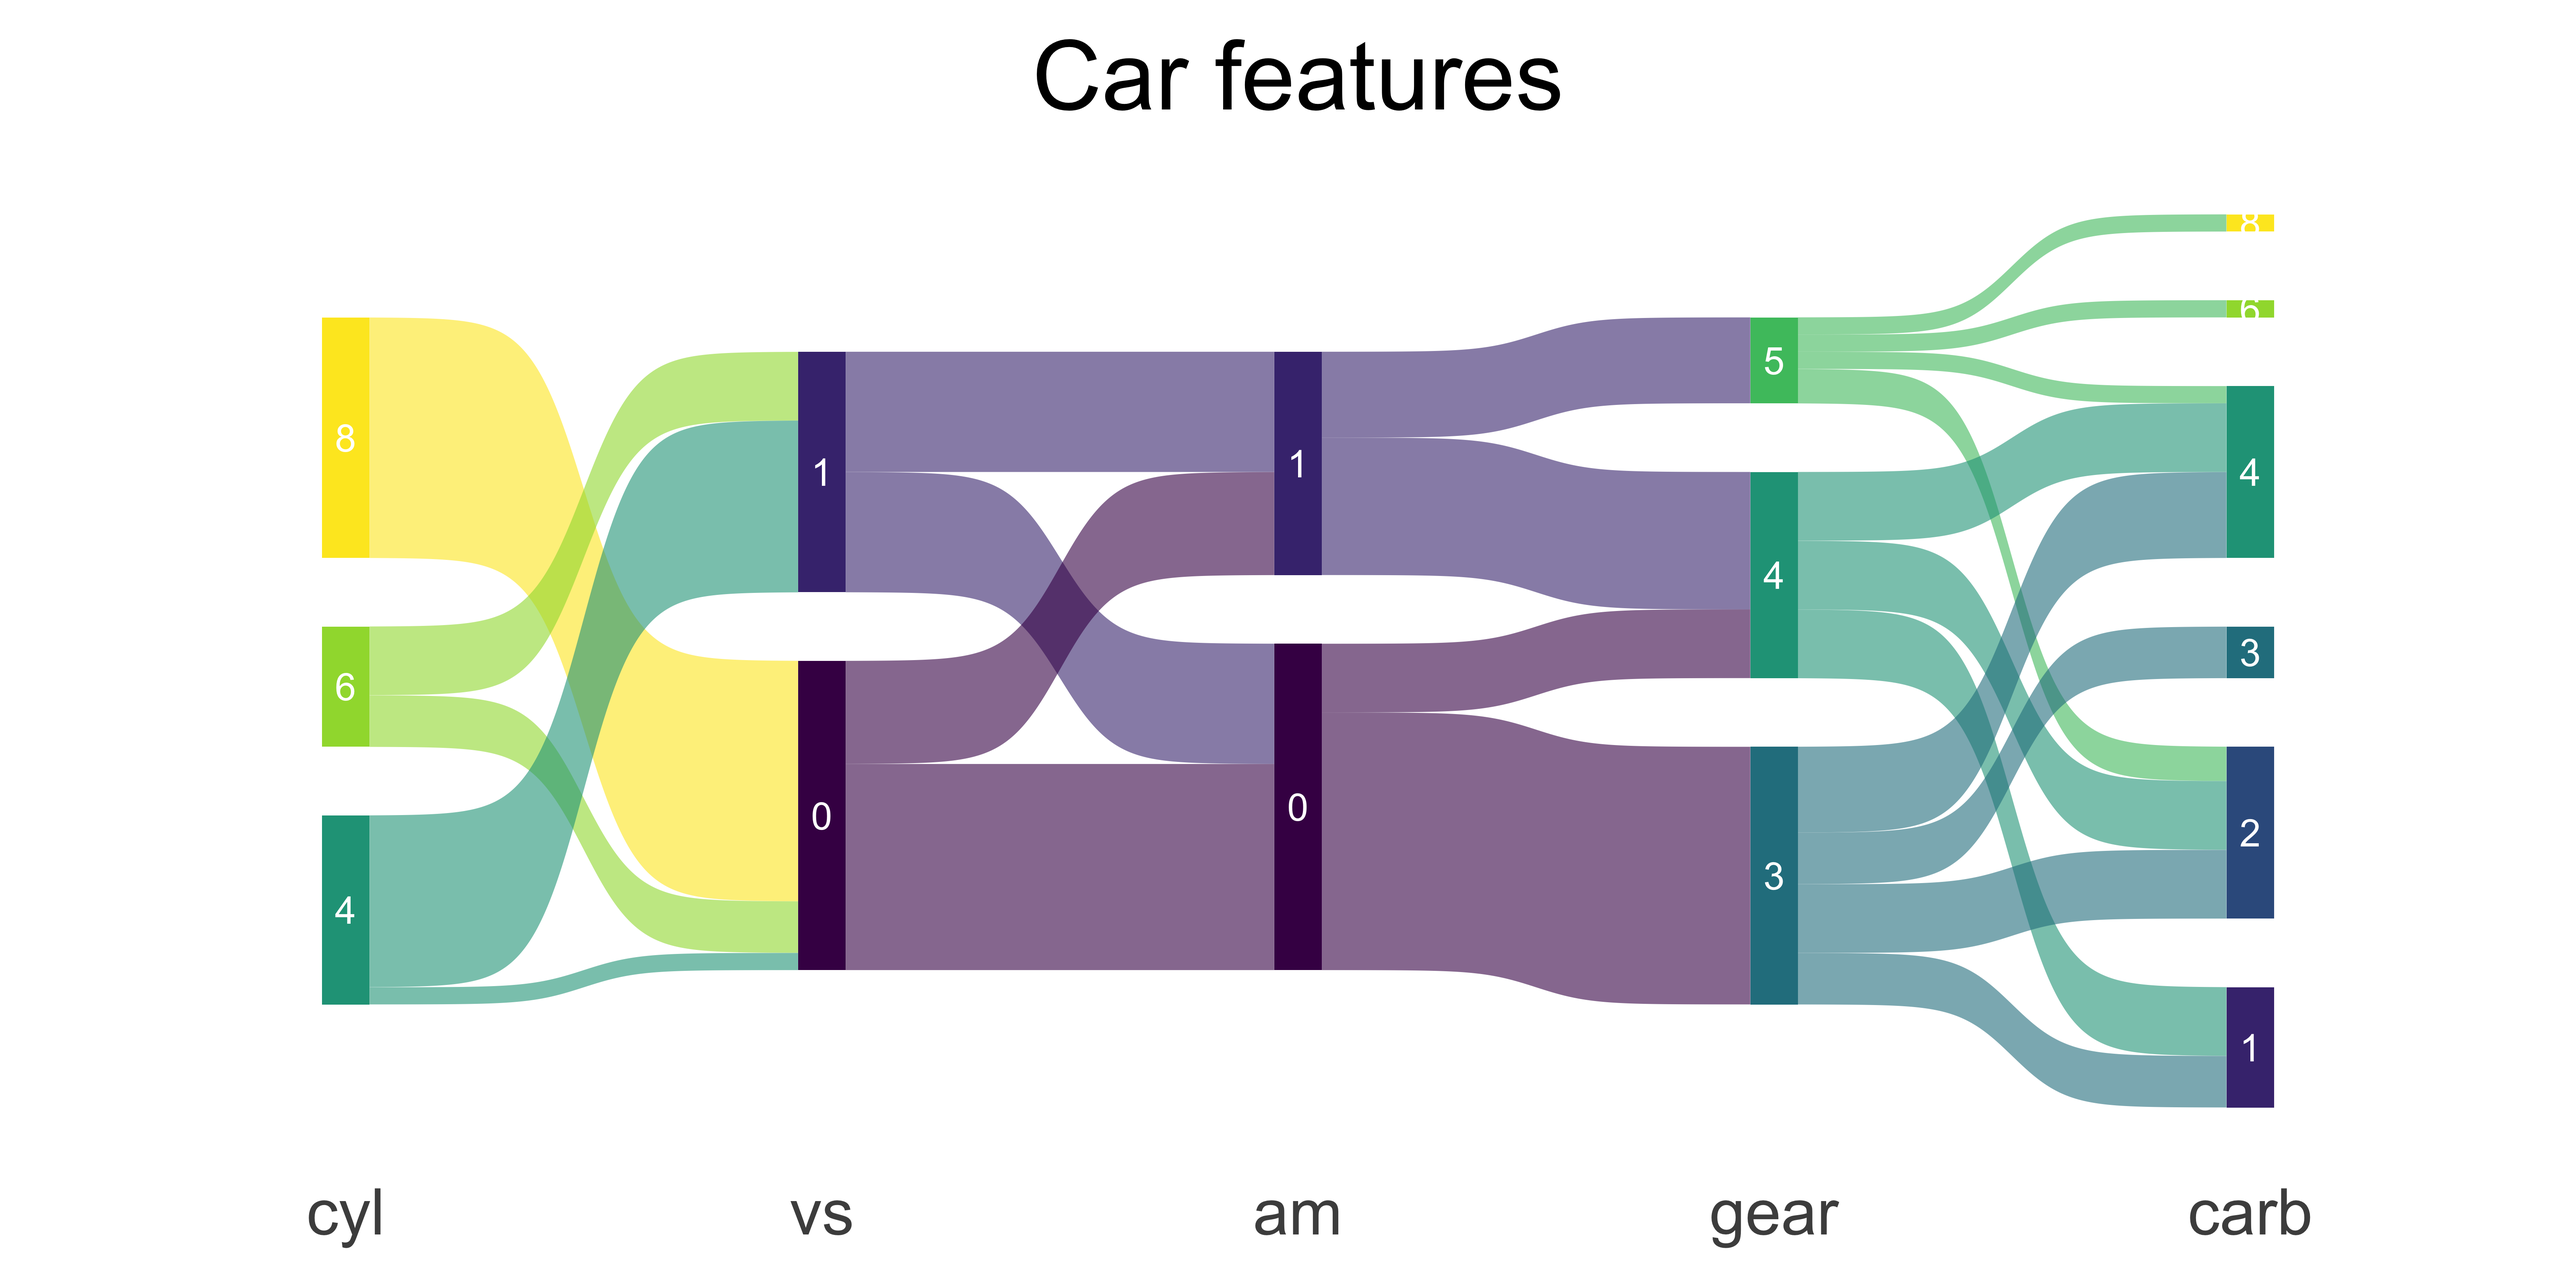
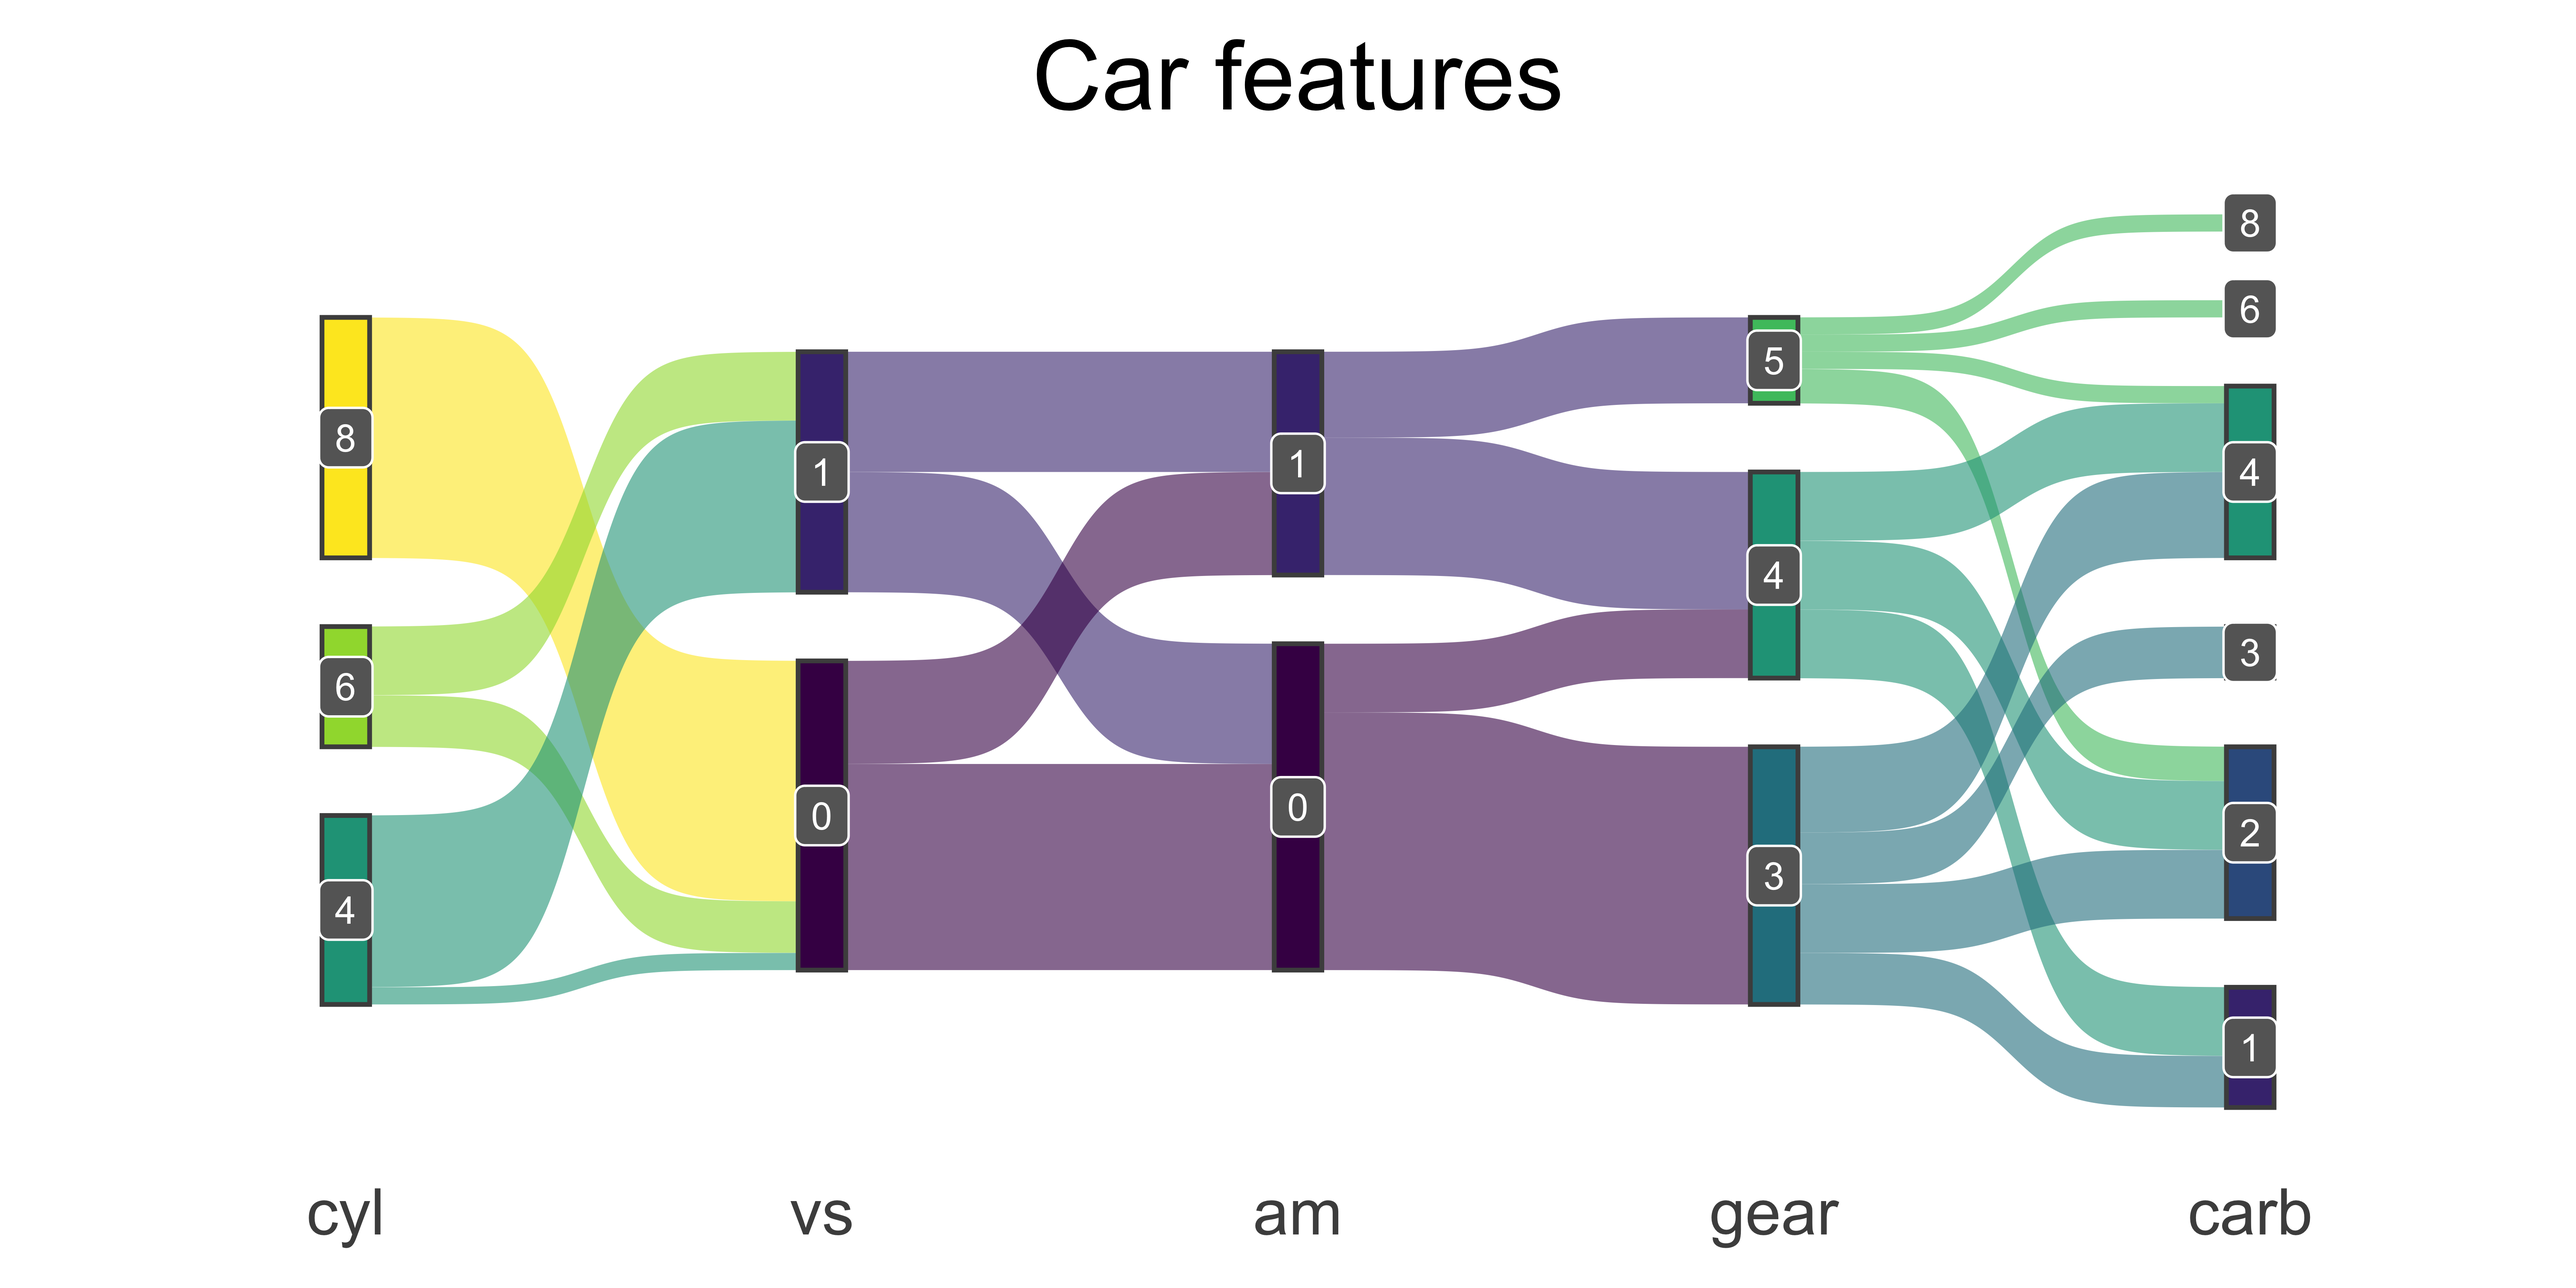
Add files via upload

diff --git a/README.md b/README.md
@@ -8,7 +8,7 @@
 <!-- badges: end -->
 
 The goal of ggsankey is to make beautiful sankey, alluvial and sankey
-bump plots i `ggplot2`
+bump plots in `ggplot2`
 
 ## Installation
 
@@ -16,8 +16,39 @@ You can install the development version of ggsankey from `github` with:
 
 ``` r
 # install.packages("devtools")
-devtools::install_github("davidsjoberg/ggbump")
+devtools::install_github("davidsjoberg/ggsankey")
 ```
+
+## How does it work
+
+[Google](https://developers.google.com/chart/interactive/docs/gallery/sankey)
+defines a sankey as:
+
+***A sankey diagram is a visualization used to depict a flow from one
+set of values to another. The things being connected are called nodes
+and the connections are called links. Sankeys are best used when you
+want to show a many-to-many mapping between two domains or multiple
+paths through a set of stages.***
+
+To plot a sankey diagram with `ggsankey` each observation has a *stage*
+(called a discrete x-value in `ggplot`) and be part of a *node*.
+Furthermore, each observation needs to have instructions of which *node*
+it will belong to in the next *stage*. See the image below for some
+clarification.
+
+<img src="man/figures/README-unnamed-chunk-2-1.png" width="100%" />
+
+Hence, to use `geom_sankey` the aestethics `x`, `next_x`, `node` and
+`next_node` are required. The last *stage* should point to `NA`. The
+aestethics fill and color will affect both *nodes* and *flows*.
+
+To controll geometries (not changed by data) like fill, color, size,
+alpha etc for *nodes* and *flows* you can either choose to set a global
+value that affect both, or you can specify which one you want to alter.
+For example `node.color = 'black'` will only draw a black line around
+the nodes, but not the flows (links).
+
+<img src="man/figures/README-unnamed-chunk-3-1.png" width="100%" />
 
 ## Example
 
@@ -27,8 +58,8 @@ A basic sankey plot that shows how dimensions are linked.
 
 ``` r
 library(ggsankey)
-library(tidyverse)
-library(hablar)
+library(dplyr)
+library(ggplot2)
 
 df <- mtcars %>%
   make_long(cyl, vs, am, gear, carb)
@@ -43,15 +74,23 @@ ggplot(df, aes(x = x,
 
 <img src="man/figures/README-example-1.png" width="100%" />
 
-And by adding a little pimp and labels with `geom_sankey_label` which
-places labels in the center of nodes if given the same aestethics.
-`ggsankey` also comes with custom minimalistic themes that can be
-used.
+And by adding a little pimp.
+
+  - Labels with `geom_sankey_label` which places labels in the center of
+    nodes if given the same aestethics.
+
+  - `ggsankey` also comes with custom minimalistic themes that can be
+    used. Here I use
+`theme_sankey`.
+
+  - 
+<!-- end list -->
 
 ``` r
 ggplot(df, aes(x = x, next_x = next_x, node = node, next_node = next_node, fill = factor(node), label = node)) +
-  geom_sankey(flow.alpha = .6) +
-  geom_sankey_text(size = 3, color = "white") +
+  geom_sankey(flow.alpha = .6,
+              node.color = "gray30") +
+  geom_sankey_label(size = 3, color = "white", fill = "gray40") +
   scale_fill_viridis_d() +
   theme_sankey(base_size = 18) +
   labs(x = NULL) +
